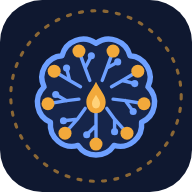
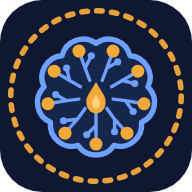
Halo do icone mais forte

Changed region(s): [[0.0312, 0.0312, 0.9688, 0.9688]]

diff --git a/sw.js b/sw.js
@@ -1,5 +1,5 @@
 // Cache do aplicativo para uso offline. Mude VERSAO ao publicar uma atualização.
-const VERSAO = 'lume-guia-v10';
+const VERSAO = 'lume-guia-v11';
 const CASCA = ['./', 'index.html', 'css/app.css', 'js/app.js', 'js/logo.js', 'manifest.webmanifest', 'icons/icon.svg', 'icons/icon-192.png', 'icons/icon-512.png'];
 const FONTES = ['fonts.googleapis.com', 'fonts.gstatic.com'];
 
